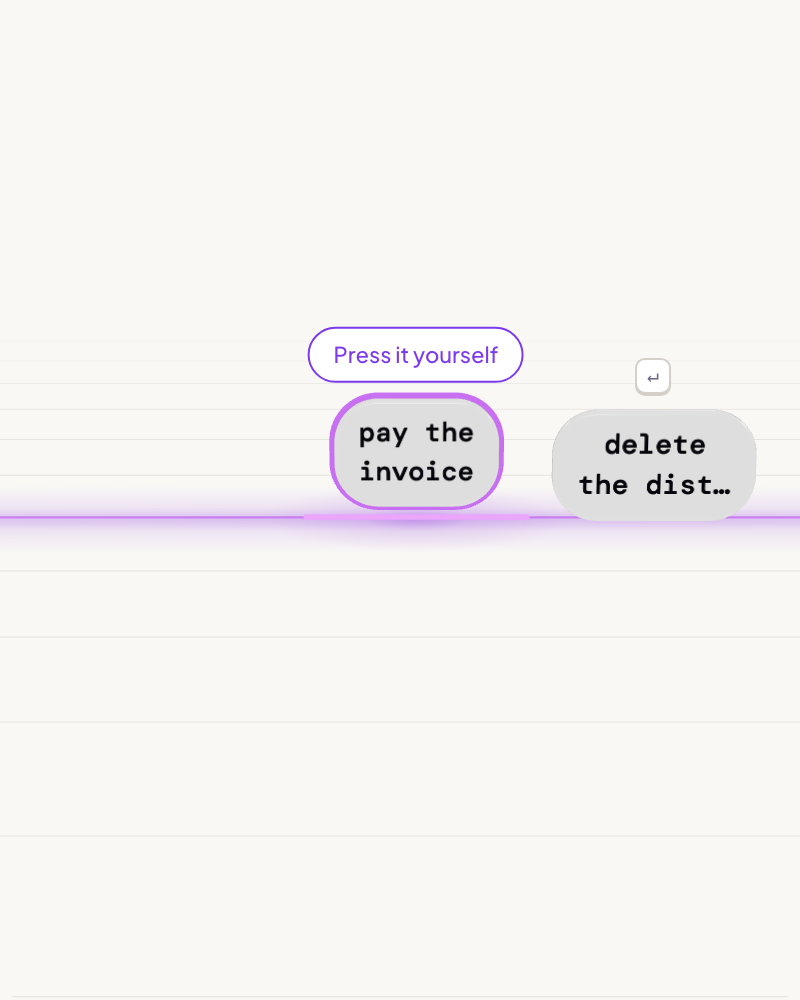
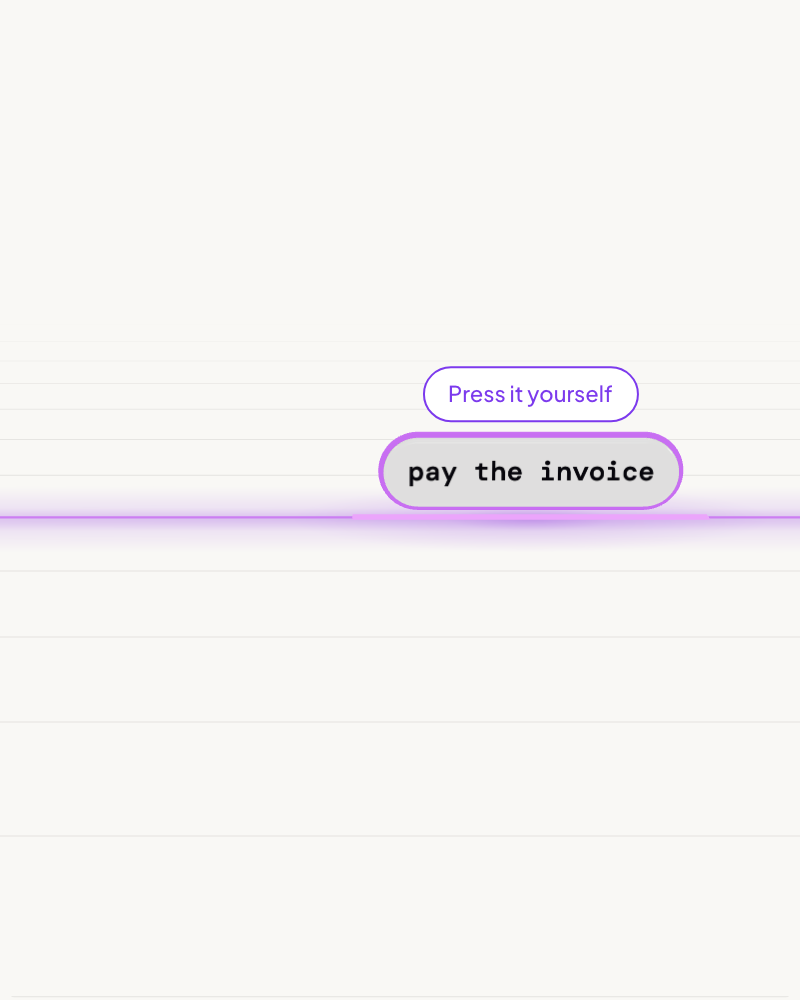
fix(stage): one lane for the line's ask cards under md, so every ask wraps whole in two lines

Changed region(s): [[0.375, 0.341, 0.9688, 0.527]]

diff --git a/app/components/stage/line.vue b/app/components/stage/line.vue
@@ -22,6 +22,8 @@ const TIER_NAME: Record<Tier, string> = { runs: "Runs", waits: "Waits for you", 
 const PLACEHOLDER = "Type something you'd ask an agent to do";
 const PRESS = "Press it yourself";
 const ZONE: Record<Tier, number> = { runs: -2.2, waits: 0.9, stops: 0 };
+// Two lanes beside the zone labels leave a phone card five letters a line, so every ask gets the whole lane and wraps to two.
+const PHONE_SLOTS = 1;
 const FILM = {
   events: [
     ...EXAMPLES.slice(0, 4).map((text, i) => ({ at: i * LINE.every, send: text })),
@@ -108,7 +110,7 @@ const setup: SceneSetup = async ({ canvas: surface, film: filming, mobile }) => 
     const left = (-1 - origin.x) / unit;
     const right = (1 - origin.x) / unit;
     const gutter = (Math.max(0, ...[...(box.value?.querySelectorAll<HTMLElement>("[data-zone]") ?? [])].map((el) => el.offsetLeft + el.offsetWidth)) + 16) / perUnit;
-    slots = wide.matches ? 4 : 2;
+    slots = wide.matches ? 4 : PHONE_SLOTS;
     const start = left + gutter;
     const span = right - 0.15 - start;
     layout.slotWidth = span / slots;
@@ -245,7 +247,7 @@ const seed = (count: number): void => {
 
 seed(4);
 onMounted(() => {
-  if (!matchMedia("(min-width: 768px)").matches) seed(2);
+  if (!matchMedia("(min-width: 768px)").matches) seed(PHONE_SLOTS);
 });
 
 const interact = (): void => {

diff --git a/app/utils/stage/line.ts b/app/utils/stage/line.ts
@@ -114,7 +114,7 @@ export type Ledger = {
   prune: (now: number) => void;
 };
 
-const ORDER: Record<number, number[]> = { 2: [0, 1], 4: [1, 2, 0, 3] };
+const ORDER: Record<number, number[]> = { 4: [1, 2, 0, 3] };
 
 export const createLedger = (reduced: () => boolean): Ledger => {
   const actions: Action[] = [];
